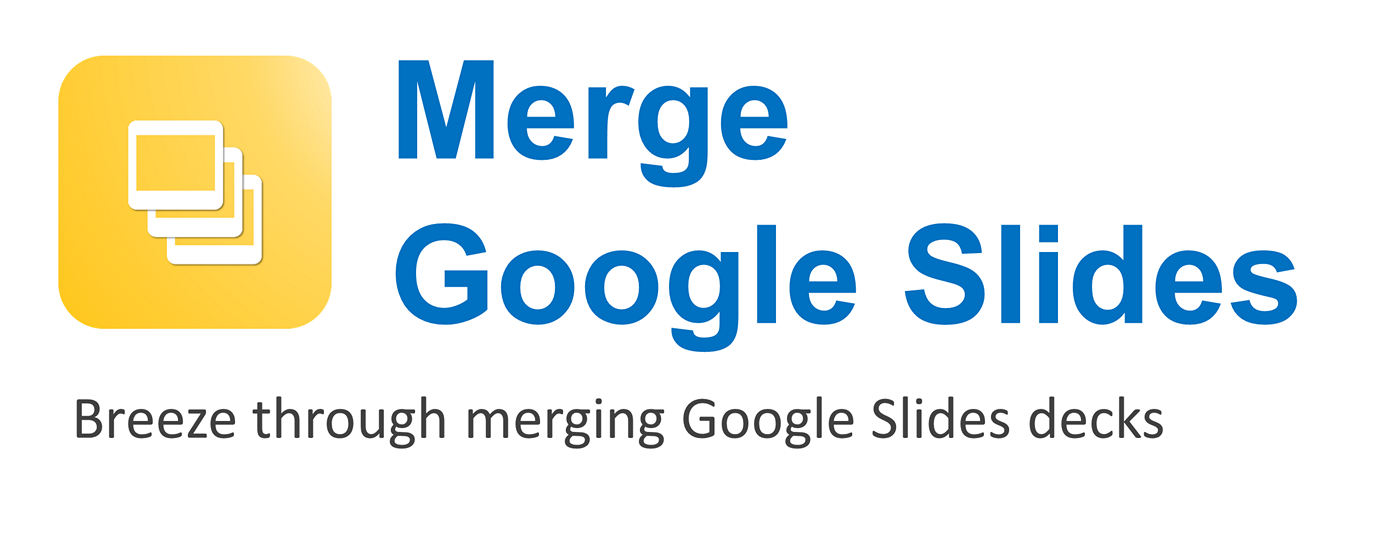
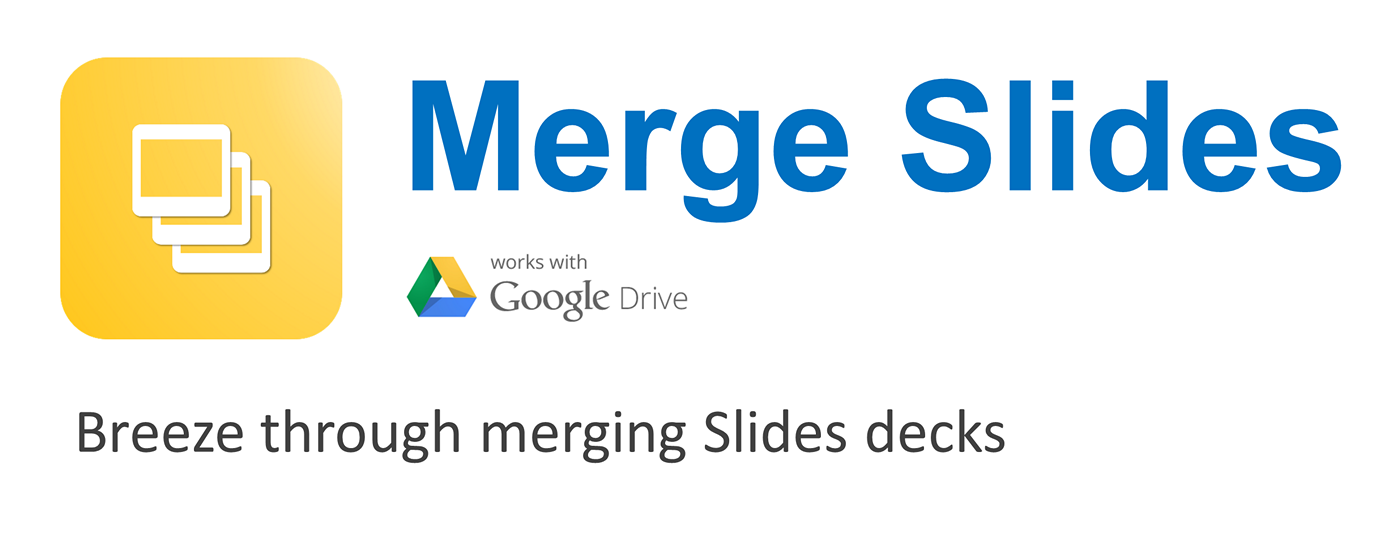
app: Rename app to comply with Google policies

diff --git a/src/components/GoogleDriveInstallation/GoogleDriveInstallation.js b/src/components/GoogleDriveInstallation/GoogleDriveInstallation.js
@@ -38,7 +38,7 @@ export default class GoogleDriveInstallation extends Component {
     this.debug && console.log('GoogleDriveInstallation.render()', this.state);
     return (
       <div className={styles.page}>
-        <h2><Image src="./ico/android-icon-48x48.png" /> Merge Google Slides at a breeze!</h2>
+        <h2><Image src="./ico/android-icon-48x48.png" /> Merge Slides in a breeze!</h2>
         <div>
           <ButtonWorksWithGoogleDrive href="https://chrome.google.com/webstore/detail/merge-google-slides/apjijeojdpjochnfenmmkegnifcgfaam" />
         </div>

diff --git a/src/App.js b/src/App.js
@@ -83,7 +83,7 @@ class App extends Component {
           <Navbar.Header>
             <Navbar.Brand>
               <Image src="./ico/android-icon-48x48.png" alt="Merge Google Slides logo" />
-              Merge Google Slides
+              Merge Slides
             </Navbar.Brand>
             <Navbar.Toggle />
           </Navbar.Header>

diff --git a/public/index.html b/public/index.html
@@ -36,7 +36,7 @@
     -->
     <link rel="stylesheet" href="https://cdn.rawgit.com/OleksiyRudenko/normalize.css/28e3dc36/normalize.css">
     <link rel="stylesheet" href="//fonts.googleapis.com/icon?family=Material+Icons">
-    <title>Merge Google Slides</title>
+    <title>Merge Slides</title>
   </head>
   <body>
     <noscript>
